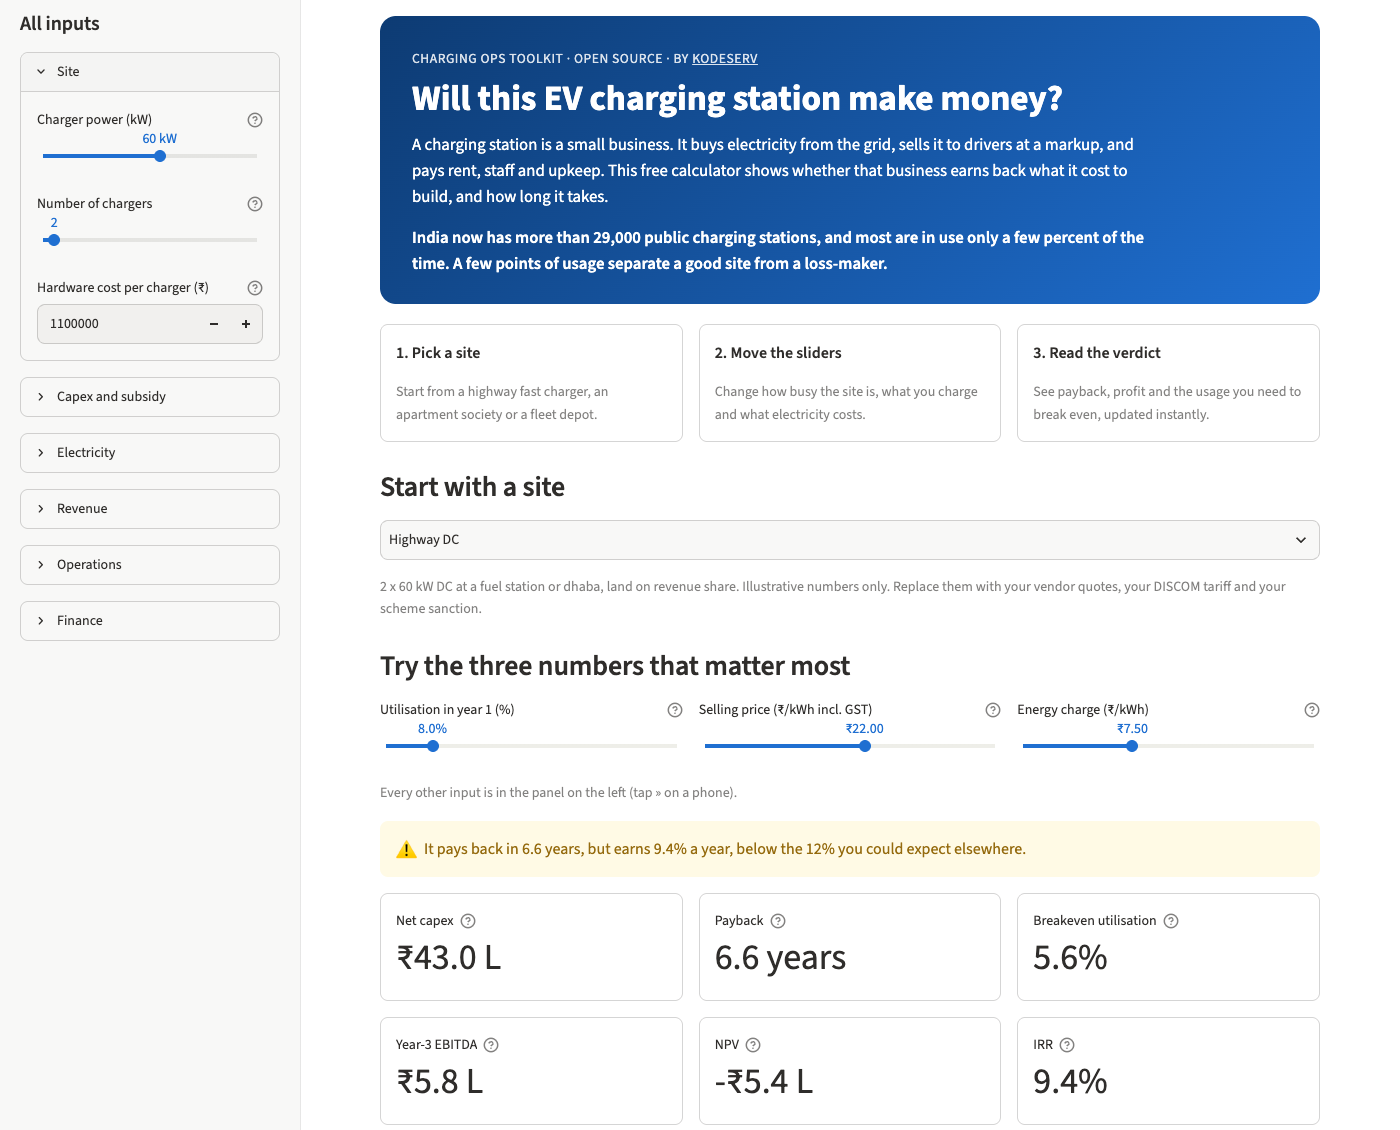
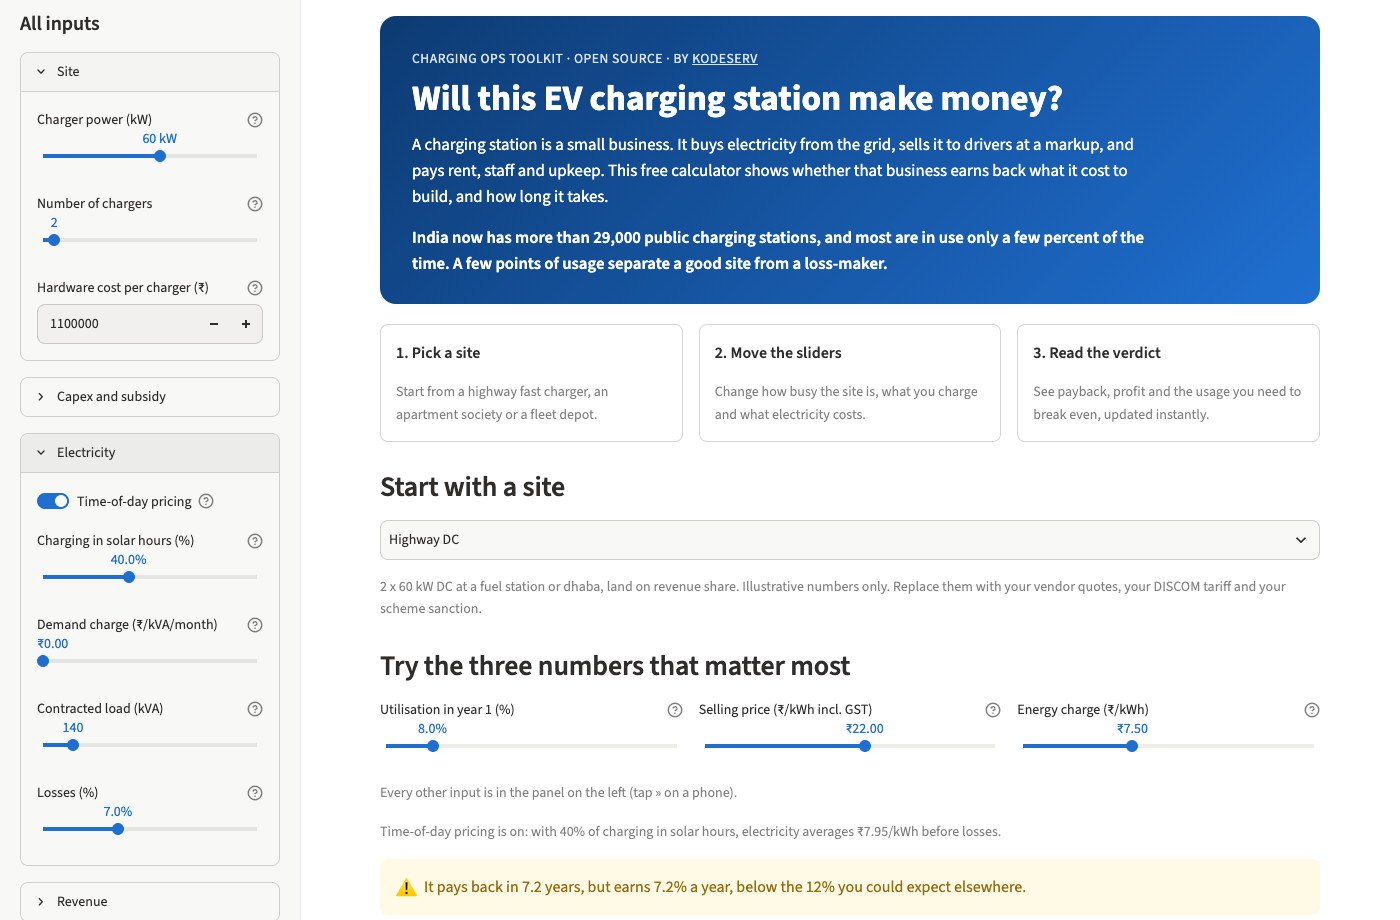
Add time-of-day energy pricing and a per-kWh price breakdown
- Optional time-of-day pricing: public stations pay 0.7x the energy charge
  in solar hours (9 am to 4 pm) and 1.3x otherwise, per the 2024 MoP
  guidelines; the user sets the share of charging in solar hours
- Highway preset turns it on with 40% of charging in solar hours
- "Where each Rs 22 goes" waterfall: GST, fees, revenue share,
  electricity, fixed costs per kWh and the profit left
- Hand-checked highway figures re-worked for the blended rate

diff --git a/app/form.py b/app/form.py
@@ -9,7 +9,7 @@ from typing import Literal
 
 from cpo_calc.models import SiteInputs
 
-Kind = Literal["count", "kw", "rupees", "rate", "pct"]
+Kind = Literal["count", "kw", "rupees", "rate", "pct", "toggle"]
 
 
 @dataclass(frozen=True)
@@ -33,7 +33,9 @@ GROUPS: list[tuple[str, list[FormField]]] = [
         FormField("capex.subsidy", "Subsidy (₹)", "Amount sanctioned under PM E-DRIVE or a state scheme. Keep 0 until it is sanctioned.", "rupees"),
     ]),
     ("Electricity", [
-        FormField("energy.energy_charge_per_kwh", "Energy charge (₹/kWh)", "EV charging category in your DISCOM's current tariff order.", "rate"),
+        FormField("energy.energy_charge_per_kwh", "Energy charge (₹/kWh)", "EV charging category in your DISCOM's current tariff order. With time-of-day pricing on, enter the normal rate.", "rate"),
+        FormField("energy.time_of_day", "Time-of-day pricing", "Public stations under the 2024 MoP guidelines pay 0.7x the energy charge from 9 am to 4 pm and 1.3x at other times. Captive connections follow their state's own time-of-day tariff: leave this off and enter a blended rate.", "toggle"),
+        FormField("energy.solar_hours_share_pct", "Charging in solar hours (%)", "Share of energy sold between 9 am and 4 pm. Highway and office sites charge more by day; depots and homes mostly at night.", "pct"),
         FormField("energy.demand_charge_per_kva_month", "Demand charge (₹/kVA/month)", "Public stations: usually 0, as the 2024 MoP guidelines ask for an energy-only tariff until March 2028. Captive or depot connections often pay it. Check your state's tariff order.", "rate"),
         FormField("energy.contracted_load_kva", "Contracted load (kVA)", "Sanctioned load on the connection.", "kw"),
         FormField("energy.losses_pct", "Losses (%)", "Charger and cable losses; 5-8% is typical.", "pct"),
@@ -85,6 +87,7 @@ SLIDERS: dict[str, SliderRange] = {
     "energy.demand_charge_per_kva_month": SliderRange(0, 500, 10),
     "energy.contracted_load_kva": SliderRange(0, 1000, 10),
     "energy.losses_pct": SliderRange(0, 20, 0.5),
+    "energy.solar_hours_share_pct": SliderRange(0, 100, 5),
     "revenue.price_per_kwh_incl_gst": SliderRange(0, 40, 0.5),
     "revenue.gst_pct": SliderRange(0, 28, 1),
     "revenue.payment_fees_pct": SliderRange(0, 10, 0.25),
@@ -110,7 +113,7 @@ def error_message(loc: tuple, msg: str) -> str:
     return f"{label}: {msg}" if label else msg
 
 
-def to_state(site: SiteInputs) -> dict[str, float | int]:
+def to_state(site: SiteInputs) -> dict[str, float | int | bool]:
     """Flatten a SiteInputs (single charger group) into form values keyed by path."""
     data = site.model_dump()
     data["charger"] = data.pop("chargers")[0]
@@ -118,11 +121,12 @@ def to_state(site: SiteInputs) -> dict[str, float | int]:
     for f in ALL_FIELDS:
         group, name = f.path.split(".")
         value = data[group][name]
-        state[f.path] = int(value) if f.kind == "count" else float(value)
+        cast = {"count": int, "toggle": bool}.get(f.kind, float)
+        state[f.path] = cast(value)
     return state
 
 
-def from_state(state: Mapping[str, float | int]) -> SiteInputs:
+def from_state(state: Mapping[str, float | int | bool]) -> SiteInputs:
     """Build validated SiteInputs from form values; raises pydantic.ValidationError."""
     data: dict[str, dict] = {}
     for f in ALL_FIELDS:

diff --git a/app/streamlit_app.py b/app/streamlit_app.py
@@ -6,6 +6,7 @@ import landing
 from cpo_calc.finance import evaluate
 from cpo_calc.presets import ILLUSTRATIVE_NOTE, PRESETS
 from cpo_calc.scenarios import SCENARIO_FACTORS, evaluate_scenarios
+from cpo_calc.yearly import price_breakdown
 from display import pct, rupees_lakh, scenario_table, verdict, yearly_table, years
 from form import (
     GROUPS,
@@ -22,6 +23,8 @@ DISCLAIMER = "For estimation and learning. Not a certified compliance or financi
 REPO_URL = "https://github.com/kodeserv/cpo-business-case-calculator"
 
 FORMAT = {"count": "%d", "kw": "%.0f", "rupees": "%.0f", "rate": "₹%.2f", "pct": "%.1f%%"}
+# Inputs that only matter when another input is switched on.
+ENABLED_BY = {"energy.solar_hours_share_pct": "energy.time_of_day"}
 VERDICT_BOX = {"good": st.success, "warn": st.warning, "bad": st.error}
 VERDICT_ICON = {"good": "✅", "warn": "⚠", "bad": "⛔"}
 
@@ -31,7 +34,9 @@ def load_preset() -> None:
 
 
 def field_input(f: FormField) -> None:
-    if f.path == "charger.power_kw":
+    if f.kind == "toggle":
+        st.toggle(f.label, key=f.path, help=f.hint)
+    elif f.path == "charger.power_kw":
         st.select_slider(
             f.label, options=POWER_OPTIONS_KW, key=f.path, help=f.hint, format_func=lambda kw: f"{kw:g} kW"
         )
@@ -41,6 +46,7 @@ def field_input(f: FormField) -> None:
         st.slider(
             f.label, min_value=cast(r.low), max_value=cast(r.high), step=cast(r.step),
             key=f.path, help=f.hint, format=FORMAT[f.kind],
+            disabled=f.path in ENABLED_BY and not st.session_state[ENABLED_BY[f.path]],
         )
     else:
         st.number_input(f.label, key=f.path, help=f.hint, min_value=0.0, step=1_000.0, format=FORMAT[f.kind])
@@ -87,6 +93,12 @@ except ValidationError as e:
         st.error(error_message(err["loc"], err["msg"]))
     st.stop()
 
+if site.energy.time_of_day:
+    st.caption(
+        f"Time-of-day pricing is on: with {site.energy.solar_hours_share_pct:g}% of charging in solar hours, "
+        f"electricity averages ₹{site.energy.effective_energy_charge_per_kwh:.2f}/kWh before losses."
+    )
+
 result = evaluate(site)
 life = site.finance.project_life_years
 
@@ -106,6 +118,15 @@ tiles = [
 for row in (tiles[:3], tiles[3:]):
     for col, (label, value, hint) in zip(st.columns(3), row):
         col.metric(label, value, help=hint, border=True)
+
+breakdown = price_breakdown(site)
+if breakdown is not None:
+    st.subheader(f"Where each ₹{breakdown[0][1]:g} goes")
+    st.caption(
+        "Year 1, per kWh sold. Fixed costs (staff, rent, upkeep, software) are spread over the "
+        "kWh sold, so they shrink as the site gets busier."
+    )
+    st.plotly_chart(charts.price_breakdown(breakdown))
 
 left, right = st.columns(2)
 with left:

diff --git a/tests/test_yearly.py b/tests/test_yearly.py
@@ -1,7 +1,13 @@
 import pytest
 
 from cpo_calc.models import Energy, Revenue
-from cpo_calc.yearly import breakeven_utilisation_pct, ebitda_at_utilisation, year_row, yearly_model
+from cpo_calc.yearly import (
+    breakeven_utilisation_pct,
+    ebitda_at_utilisation,
+    price_breakdown,
+    year_row,
+    yearly_model,
+)
 from tests.factories import simple_site
 
 
@@ -97,3 +103,33 @@ def test_breakeven_above_maximum_utilisation_is_not_reachable():
         update={"operations": site.operations.model_copy(update={"utilisation_pct_year1": 2, "max_utilisation_pct": 2})}
     )
     assert breakeven_utilisation_pct(capped) is None
+
+
+def test_time_of_day_blends_solar_and_non_solar_rates():
+    site = simple_site()
+    tod = site.model_copy(
+        update={"energy": Energy(energy_charge_per_kwh=5, losses_pct=0, time_of_day=True, solar_hours_share_pct=25)}
+    )
+    # 25% at 0.7x and 75% at 1.3x -> 1.15x of Rs 5
+    assert tod.energy.effective_energy_charge_per_kwh == pytest.approx(5.75)
+    assert year_row(tod, 1).energy_cost == pytest.approx(8_760 * 5.75)
+
+
+def test_half_solar_hours_leaves_the_rate_unchanged():
+    energy = Energy(energy_charge_per_kwh=8, time_of_day=True, solar_hours_share_pct=50)
+    assert energy.effective_energy_charge_per_kwh == pytest.approx(8)
+
+
+def test_price_breakdown_ends_in_profit_per_kwh():
+    site = simple_site(rent_share_pct=10)
+    items = price_breakdown(site)
+    row = year_row(site, 1)
+    assert items[0] == ("Price paid by driver", 11.8)
+    assert sum(value for _, value in items[:-1]) == pytest.approx(items[-1][1])
+    assert items[-1][1] == pytest.approx(row.ebitda / row.energy_kwh)
+
+
+def test_price_breakdown_is_none_when_nothing_is_sold():
+    site = simple_site()
+    idle = site.model_copy(update={"operations": site.operations.model_copy(update={"utilisation_pct_year1": 0})})
+    assert price_breakdown(idle) is None

diff --git a/src/cpo_calc/yearly.py b/src/cpo_calc/yearly.py
@@ -53,7 +53,7 @@ def _per_kwh(site: SiteInputs, year: int) -> _PerKwh:
         revenue=revenue,
         payment_fees=price_incl_gst * r.payment_fees_pct / 100,
         revenue_share=revenue * o.rent_share_pct / 100,
-        energy_cost=e.energy_charge_per_kwh * tariff_factor / (1 - e.losses_pct / 100),
+        energy_cost=e.effective_energy_charge_per_kwh * tariff_factor / (1 - e.losses_pct / 100),
     )
 
 
@@ -115,3 +115,26 @@ def ebitda_at_utilisation(site: SiteInputs, utilisation_pct: float, year: int = 
     energy_kwh = _rated_kwh(site) * utilisation_pct / 100
     other_income = site.revenue.other_income_per_month * 12
     return energy_kwh * _per_kwh(site, year).margin + other_income - _fixed_costs(site, year)
+
+
+def price_breakdown(site: SiteInputs, year: int = 1) -> list[tuple[str, float]] | None:
+    """Where each rupee of the selling price goes in `year`, per kWh sold.
+
+    Fixed costs and other income are spread over the kWh sold that year, so the last item,
+    profit per kWh, equals EBITDA / kWh. None when nothing is sold.
+    """
+    row = year_row(site, year)
+    if row.energy_kwh == 0:
+        return None
+    unit = _per_kwh(site, year)
+    price = site.revenue.price_per_kwh_incl_gst * (1 + site.finance.price_escalation_pct / 100) ** (year - 1)
+    return [
+        ("Price paid by driver", price),
+        ("GST", -(price - unit.revenue)),
+        ("Payment and platform fees", -unit.payment_fees),
+        ("Landowner's revenue share", -unit.revenue_share),
+        ("Electricity, incl. losses", -unit.energy_cost),
+        ("Fixed costs", -row.fixed_costs / row.energy_kwh),
+        ("Other income", row.other_income / row.energy_kwh),
+        ("Profit (EBITDA)", row.ebitda / row.energy_kwh),
+    ]

diff --git a/app/charts.py b/app/charts.py
@@ -69,3 +69,37 @@ def ebitda_vs_utilisation(site: SiteInputs, result: SiteResult) -> go.Figure:
             )
         )
     return _layout(fig, "Utilisation (%)")
+
+
+DEDUCTION = "#eb6834"
+ADDITION = "#1baf7a"
+
+
+def price_breakdown(items: list[tuple[str, float]]) -> go.Figure:
+    """Horizontal waterfall from the driver's price down to profit per kWh."""
+    shown = [items[0]] + [(label, v) for label, v in items[1:-1] if abs(v) >= 0.005] + [items[-1]]
+    # Values ride in the category labels, so no bar text can collide with an axis label on a phone.
+    labels = [f"{label}  {'−' if v < 0 else ''}₹{abs(v):,.2f}" for label, v in shown]
+    values = [v for _, v in shown]
+    measures = ["absolute"] + ["relative"] * (len(shown) - 2) + ["total"]
+    fig = go.Figure(
+        go.Waterfall(
+            orientation="h",
+            y=labels,
+            x=values,
+            measure=measures,
+            decreasing=dict(marker=dict(color=DEDUCTION)),
+            increasing=dict(marker=dict(color=ADDITION)),
+            totals=dict(marker=dict(color=SERIES)),
+            connector=dict(line=dict(color=REFERENCE, width=1, dash="dot")),
+            hovertemplate="%{y}: ₹%{x:,.2f} per kWh<extra></extra>",
+        )
+    )
+    fig.update_layout(
+        margin=dict(l=8, r=8, t=8, b=8),
+        height=60 + 40 * len(shown),
+        showlegend=False,
+        xaxis=dict(title="₹ per kWh", zeroline=True, zerolinecolor=REFERENCE),
+        yaxis=dict(autorange="reversed"),
+    )
+    return fig

diff --git a/tests/test_app.py b/tests/test_app.py
@@ -13,7 +13,7 @@ def test_form_state_round_trips_every_preset(key):
 
 
 def test_form_covers_every_input_field():
-    assert len(ALL_FIELDS) == len(to_state(PRESETS["highway_dc"].inputs)) == 28
+    assert len(ALL_FIELDS) == len(to_state(PRESETS["highway_dc"].inputs)) == 30
 
 
 def test_invalid_form_state_raises():
@@ -81,3 +81,16 @@ def test_page_shows_a_verdict_that_follows_the_sliders():
     assert "below the 12% you could expect elsewhere" in at.warning[0].value
     at.slider(key="revenue.price_per_kwh_incl_gst").set_value(9.0).run()  # below energy cost
     assert "does not earn back its cost" in at.error[0].value
+
+
+def test_page_shows_where_the_price_goes():
+    at = AppTest.from_file("../app/streamlit_app.py").run()
+    assert "Where each ₹22 goes" in [h.value for h in at.subheader]
+
+
+def test_solar_share_slider_is_disabled_until_time_of_day_is_on():
+    at = AppTest.from_file("../app/streamlit_app.py").run()
+    at.selectbox(key="preset").select("apartment_ac").run()
+    assert at.slider(key="energy.solar_hours_share_pct").disabled
+    at.toggle(key="energy.time_of_day").set_value(True).run()
+    assert not at.slider(key="energy.solar_hours_share_pct").disabled

diff --git a/src/cpo_calc/models.py b/src/cpo_calc/models.py
@@ -7,6 +7,11 @@ from pydantic import BaseModel, ConfigDict, Field, model_validator
 Rupees = Annotated[float, Field(ge=0)]
 Percent = Annotated[float, Field(ge=0, le=100)]
 
+# 2024 MoP charging guidelines: public stations pay 0.7x the tariff in solar hours
+# (9 am to 4 pm) and 1.3x outside them.
+SOLAR_HOURS_FACTOR = 0.7
+NON_SOLAR_HOURS_FACTOR = 1.3
+
 
 class _Input(BaseModel):
     model_config = ConfigDict(frozen=True, extra="forbid")
@@ -32,6 +37,17 @@ class Energy(_Input):
     demand_charge_per_kva_month: Rupees = 0
     contracted_load_kva: Annotated[float, Field(ge=0)] = 0
     losses_pct: Annotated[float, Field(ge=0, lt=100)] = 7
+    time_of_day: bool = False
+    solar_hours_share_pct: Percent = 40
+
+    @property
+    def effective_energy_charge_per_kwh(self) -> float:
+        """Energy charge averaged over when charging happens, if time-of-day pricing applies."""
+        if not self.time_of_day:
+            return self.energy_charge_per_kwh
+        solar = self.solar_hours_share_pct / 100
+        factor = solar * SOLAR_HOURS_FACTOR + (1 - solar) * NON_SOLAR_HOURS_FACTOR
+        return self.energy_charge_per_kwh * factor
 
 
 class Revenue(_Input):

diff --git a/src/cpo_calc/presets.py b/src/cpo_calc/presets.py
@@ -44,8 +44,14 @@ HIGHWAY_DC = Preset(
     inputs=SiteInputs(
         chargers=[ChargerGroup(power_kw=60, count=2, hardware_cost_each=1_100_000)],
         capex=Capex(electrical=1_500_000, civil=500_000, software_and_commissioning=100_000),
-        # Public station: single-part tariff (energy only) under the 2024 MoP guidelines.
-        energy=Energy(energy_charge_per_kwh=7.5, contracted_load_kva=140, losses_pct=7),
+        # Public station: energy-only tariff with solar-hour pricing under the 2024 MoP guidelines.
+        energy=Energy(
+            energy_charge_per_kwh=7.5,
+            contracted_load_kva=140,
+            losses_pct=7,
+            time_of_day=True,
+            solar_hours_share_pct=40,
+        ),
         revenue=Revenue(price_per_kwh_incl_gst=22, payment_fees_pct=2),
         operations=Operations(
             utilisation_pct_year1=8,

diff --git a/tests/test_hand_checked.py b/tests/test_hand_checked.py
@@ -8,7 +8,7 @@ from cpo_calc.presets import PRESETS
 EXPECTED = {
     "highway_dc": dict(
         revenue=1_567_892, payment_fees=37_002, revenue_share=156_789,
-        energy_cost=678_194, fixed_costs=484_000, ebitda=211_907, net_capex=4_300_000,
+        energy_cost=718_885, fixed_costs=484_000, ebitda=171_215, net_capex=4_300_000,
     ),
     "apartment_ac": dict(
         revenue=369_167, payment_fees=8_712, revenue_share=0,

diff --git a/tests/test_display.py b/tests/test_display.py
@@ -29,4 +29,4 @@ def test_verdict_levels():
     warn = evaluate(PRESETS["highway_dc"].inputs)
     assert verdict(good, 12, 10)[0] == "good"
     assert verdict(warn, 12, 10)[0] == "warn"
-    assert verdict(warn, 12, 10)[1].startswith("It pays back in 6.6 years, but earns 9.4% a year")
+    assert verdict(warn, 12, 10)[1].startswith("It pays back in 7.2 years, but earns 7.2% a year")

diff --git a/README.md b/README.md
@@ -44,7 +44,7 @@ For each year *t* of the project life:
 | Revenue excl. GST | energy × price incl. GST ÷ (1 + GST) |
 | Payment fees | energy × price incl. GST × fee %, since gateways charge on what the driver pays |
 | Revenue share | revenue excl. GST × share % |
-| Energy cost | energy ÷ (1 − losses) × energy charge |
+| Energy cost | energy ÷ (1 − losses) × energy charge (blended for time of day, if on) |
 | Fixed costs | demand charge × contracted kVA × 12 + O&M + CSMS + fixed rent + staff and other |
 | EBITDA | revenue − fees − revenue share − energy cost + other income − fixed costs |
 
@@ -52,6 +52,11 @@ For each year *t* of the project life:
   (rated power × every hour of the year). It is not the time a car is plugged in, which reads
   higher. It grows by a fixed number of points each year until it reaches your maximum
   utilisation, and it can never exceed uptime.
+- **Time-of-day pricing** (optional): public stations under the 2024 Ministry of Power guidelines
+  pay 0.7× the energy charge from 9 am to 4 pm and 1.3× at other times. You set the share of
+  charging that happens in solar hours, and the energy charge is blended accordingly.
+- **Where each rupee goes:** the year-1 price per kWh is split into GST, fees, revenue share,
+  electricity, fixed costs spread over the kWh sold, and the profit left.
 - **Escalation:** the energy and demand charges rise with the tariff escalation; the selling price
   rises with the price escalation. Other costs stay flat.
 - **Breakeven utilisation** is the year-1 utilisation at which EBITDA is zero (shown as not

diff --git a/examples/hand_checked.md b/examples/hand_checked.md
@@ -13,9 +13,10 @@ Uptime only caps utilisation; it does not reduce energy a second time.
 | Revenue excl. GST | 18,50,112 / 1.18 | 15,67,892 |
 | Payment fees | 2% of 18,50,112 | 37,002 |
 | Revenue share to landowner | 10% of 15,67,891.53 | 1,56,789 |
-| Energy cost | 84,096 / 0.93 x 7.5 | 6,78,194 |
+| Energy rate with time-of-day | 7.5 x (40% x 0.7 + 60% x 1.3) = 7.5 x 1.06 = 7.95 | |
+| Energy cost | 84,096 / 0.93 x 7.95 | 7,18,885 |
 | Fixed costs | no demand charge (public station); O&M 2 x 50,000; CSMS 2 x 1,000 x 12; staff 30,000 x 12 | 4,84,000 |
-| **EBITDA** | | **2,11,907** |
+| **EBITDA** | | **1,71,215** |
 | Net capex | 2 x 11,00,000 + 15,00,000 + 5,00,000 + 1,00,000 | 43,00,000 |
 
 ## Apartment society AC (4 x 7.4 kW)
